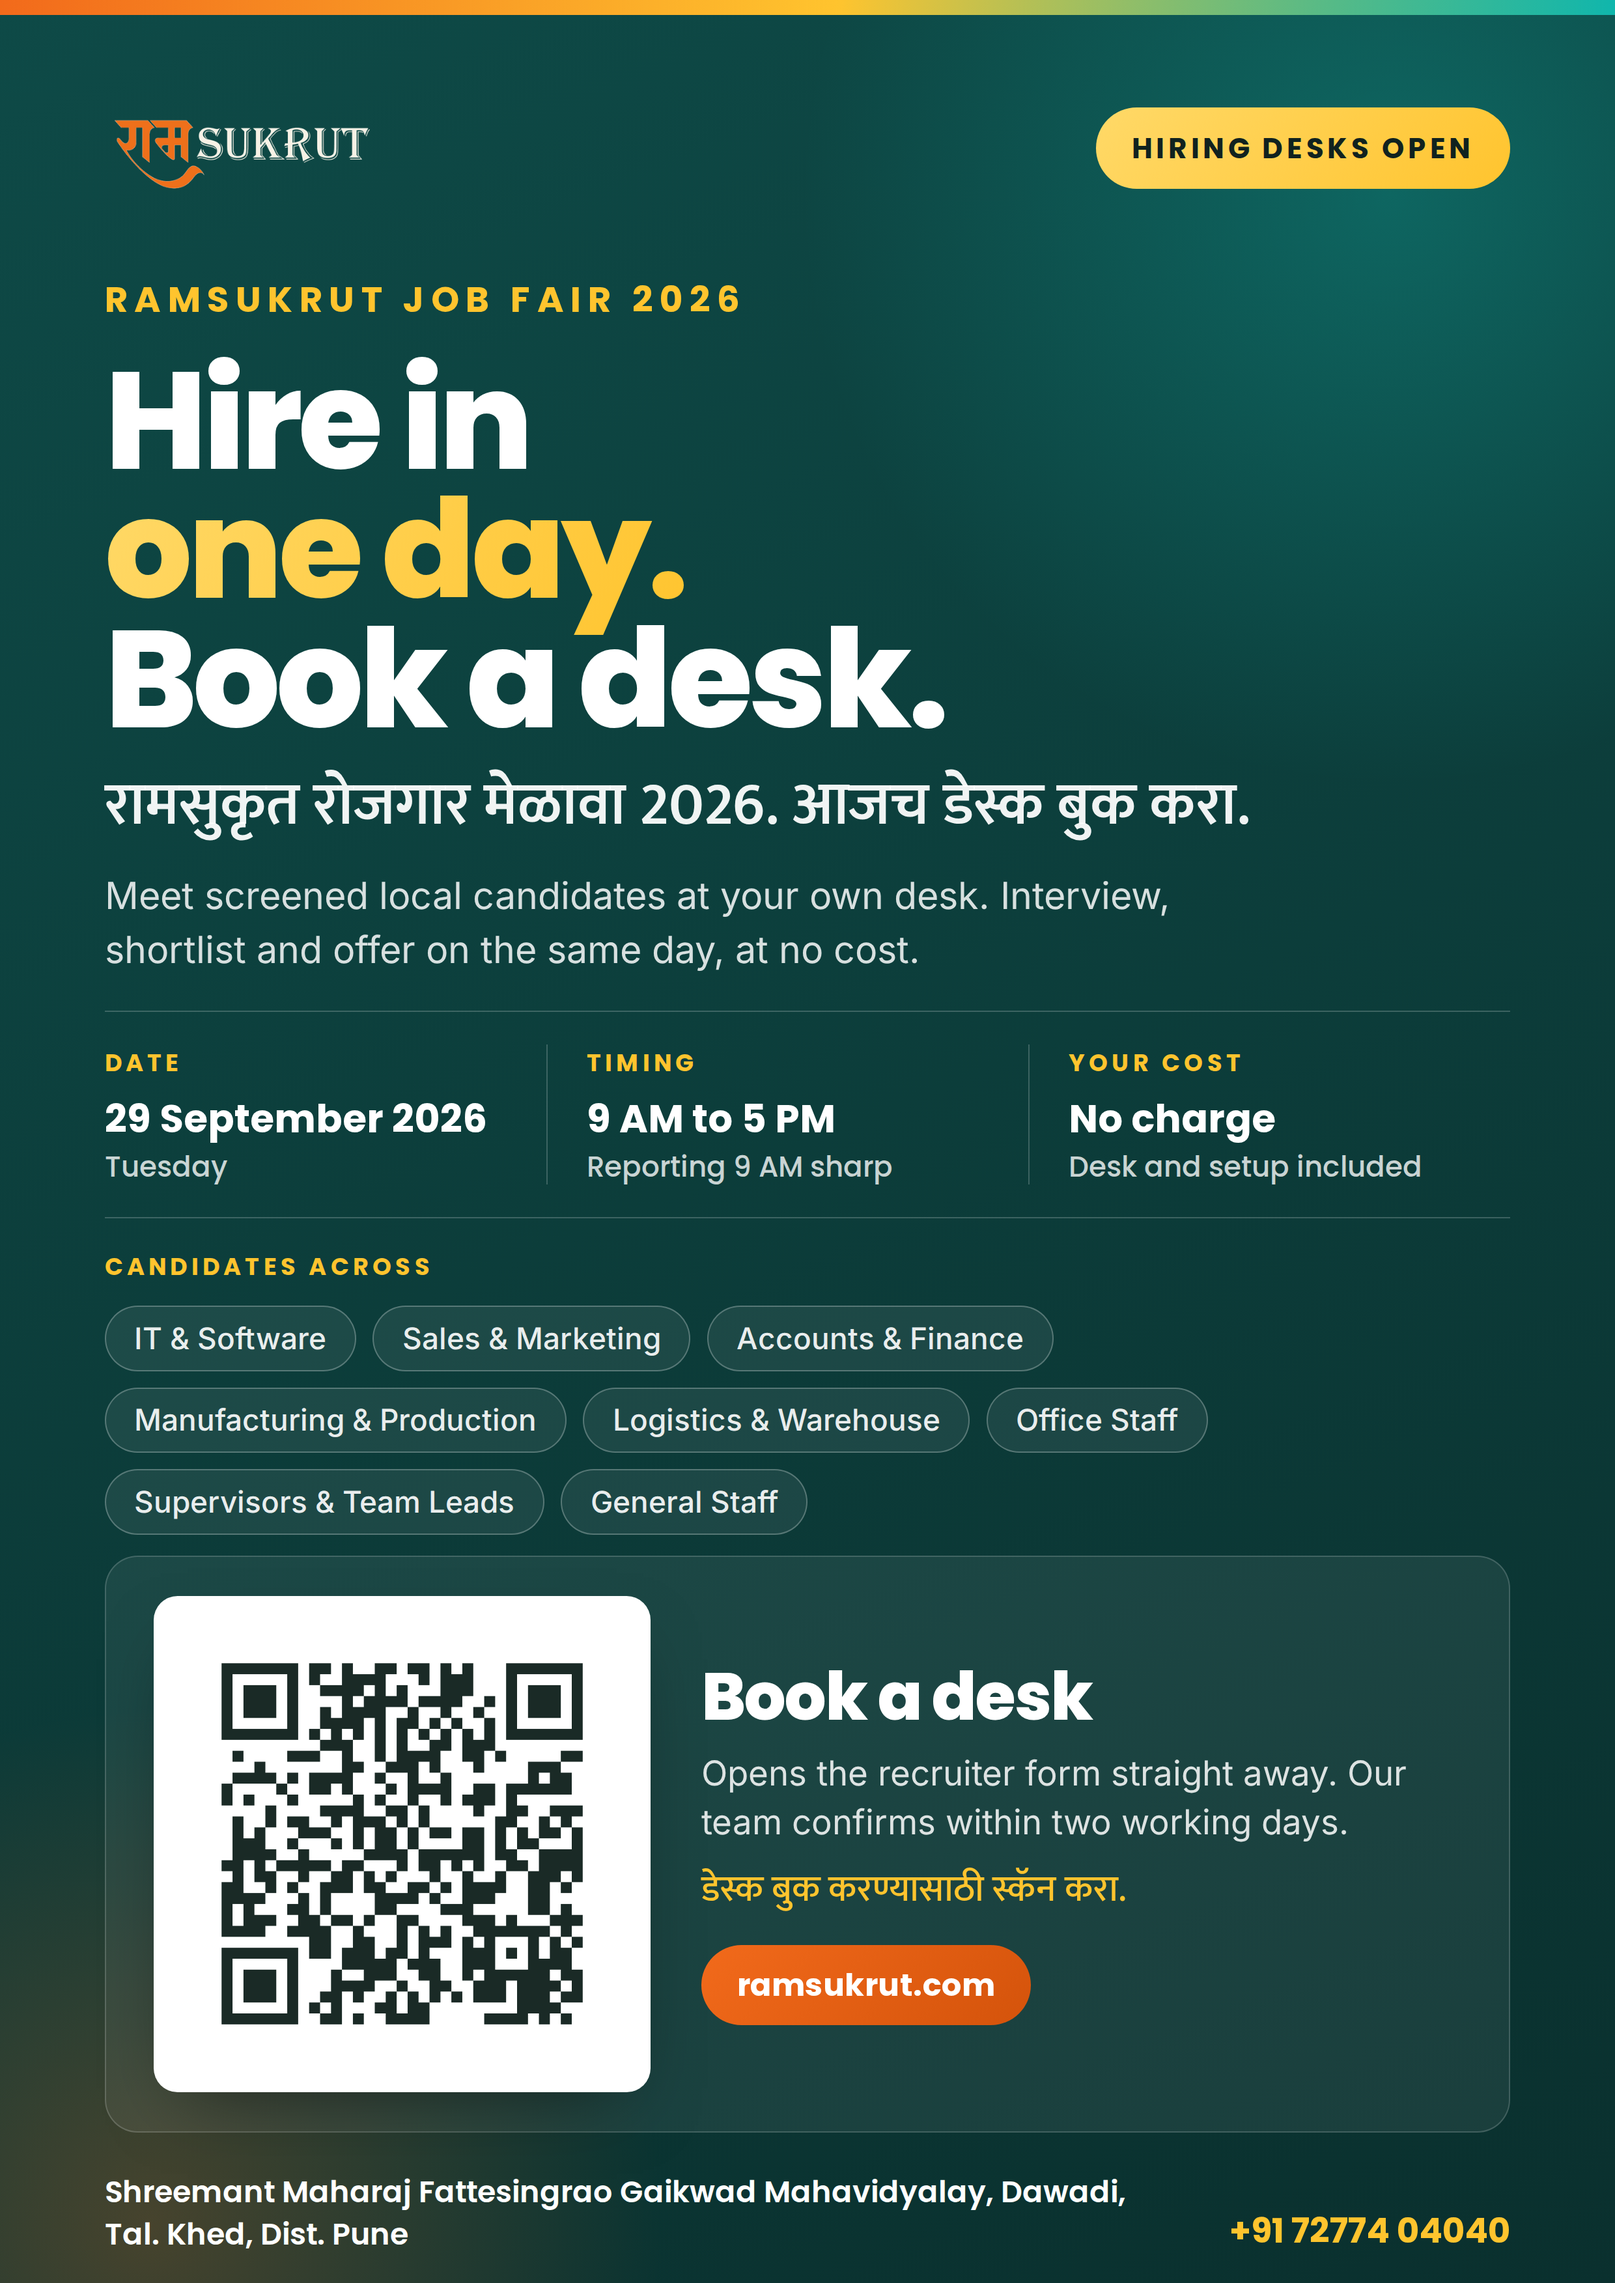
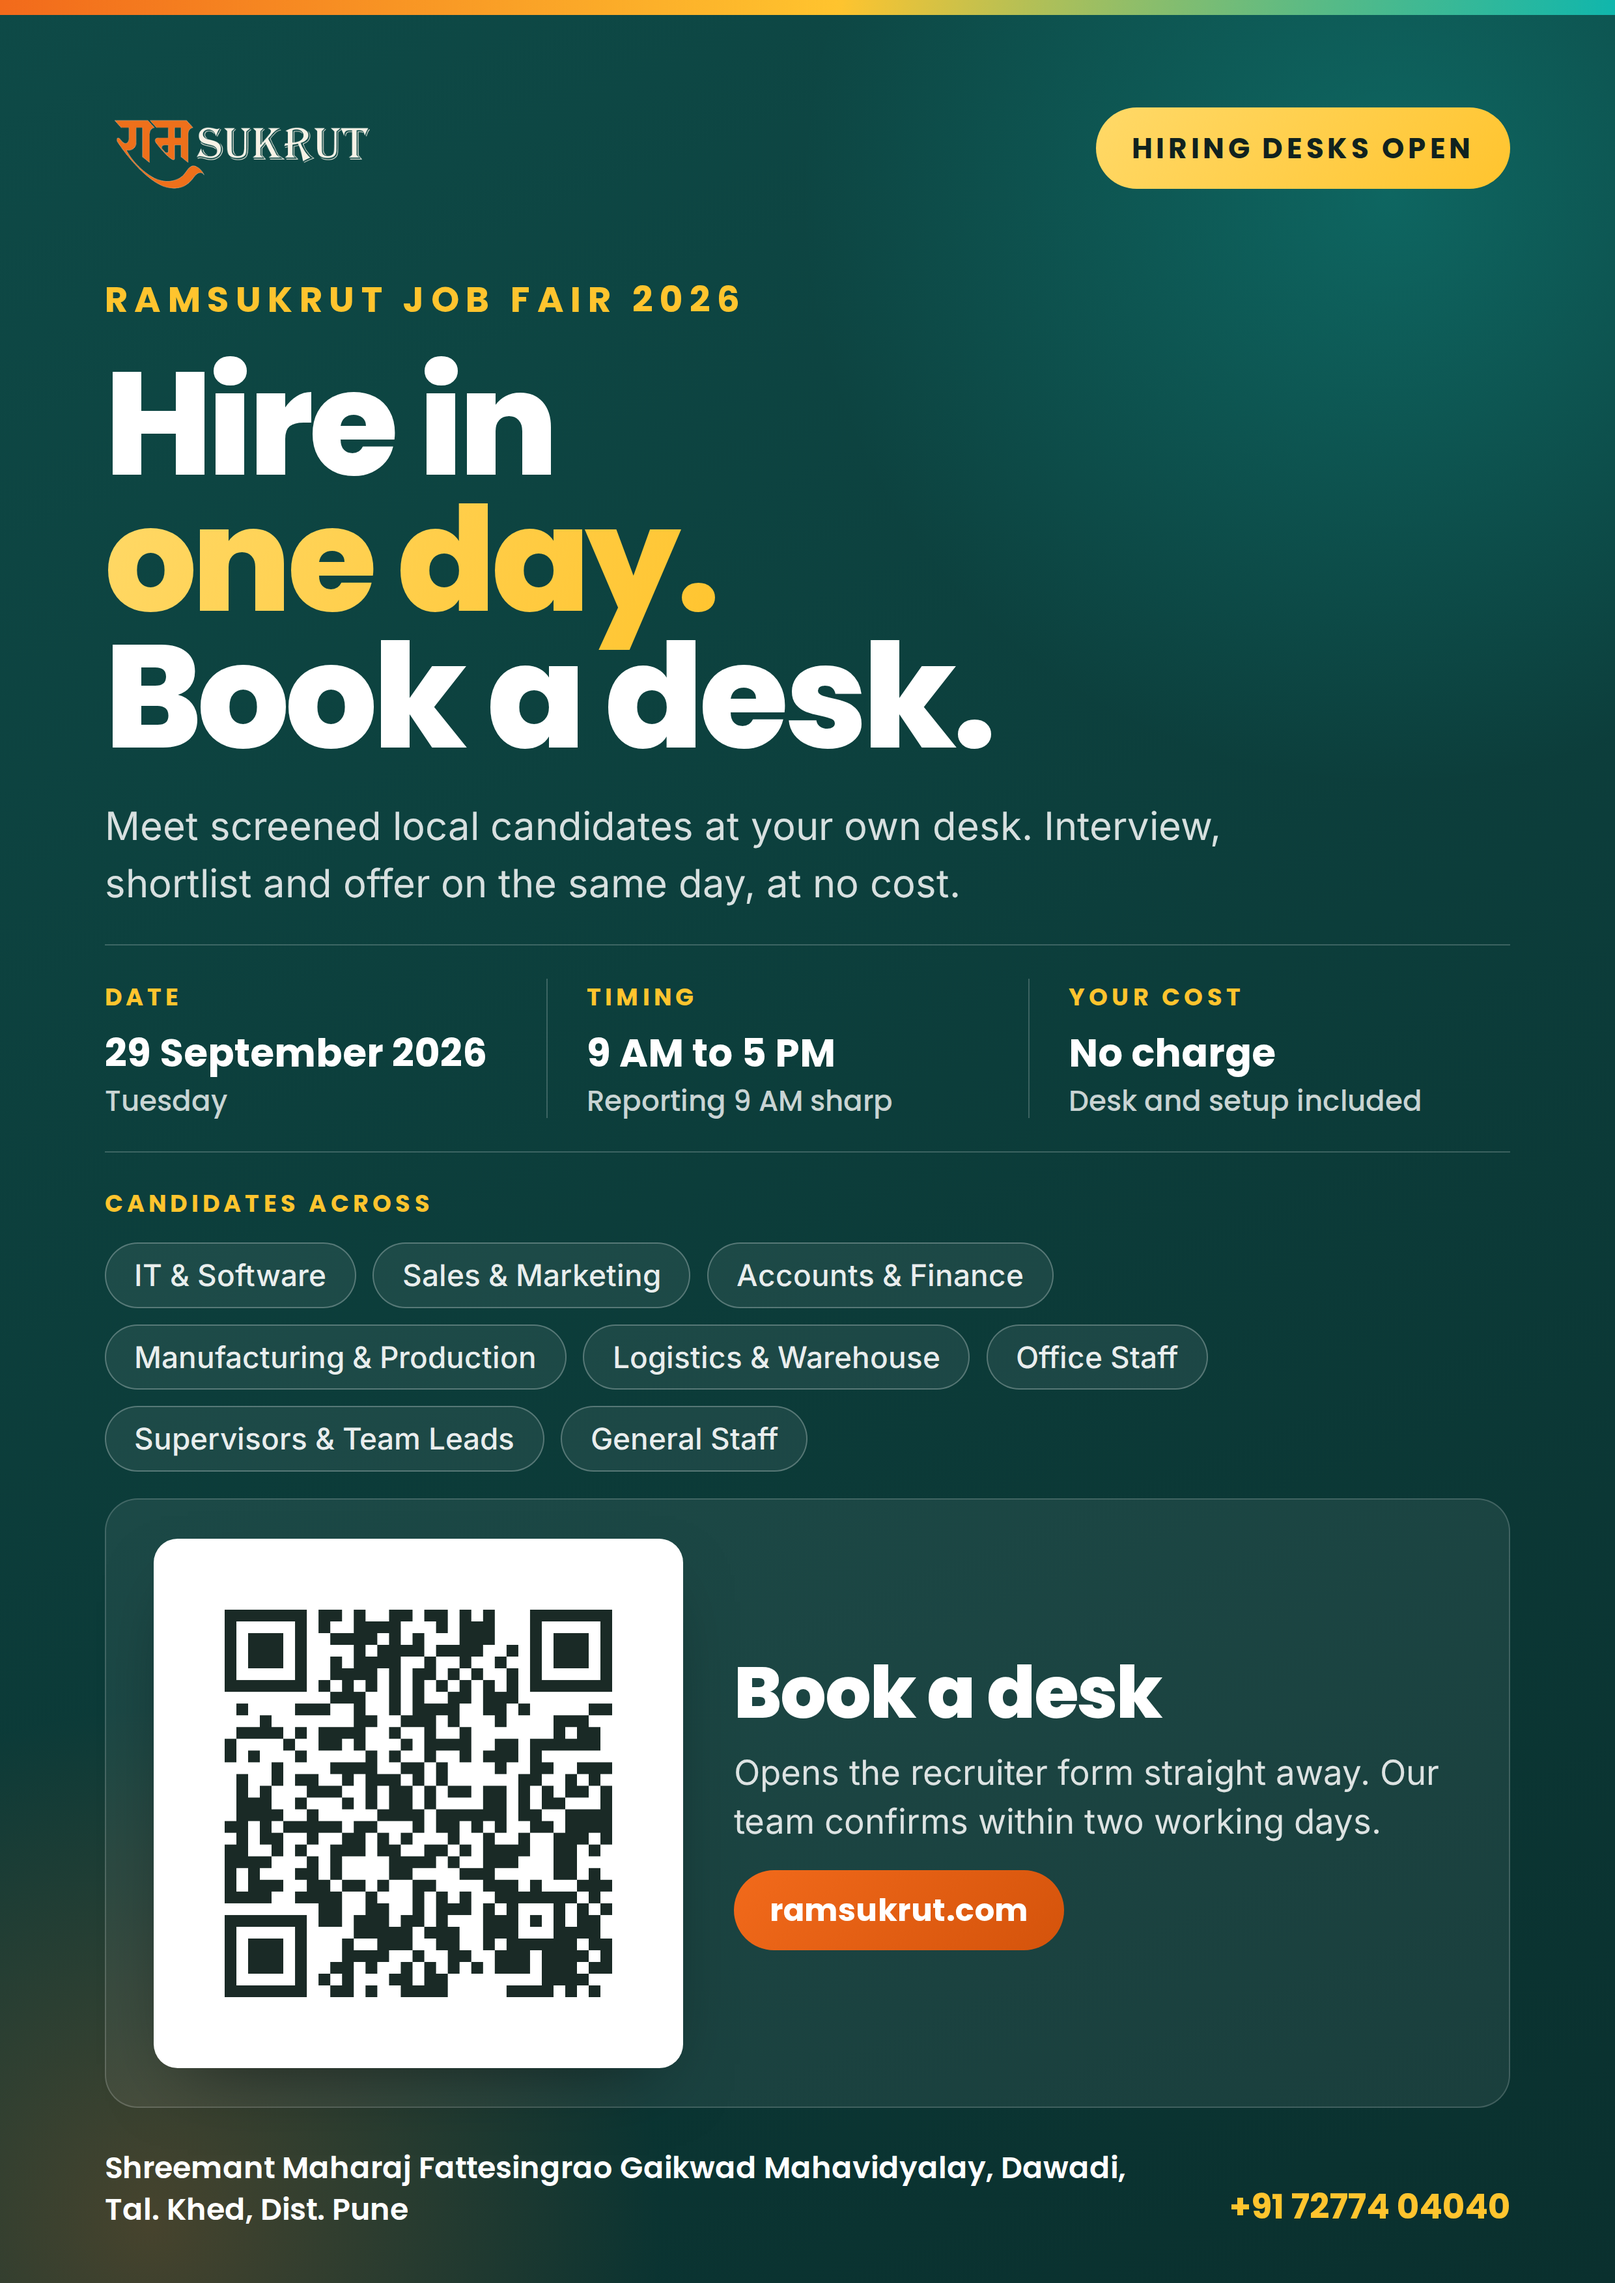
Job fair: organisation creative in English only

Changed region(s): [[0.0621, 0.1554, 0.8694, 0.9949], [0.652, 0.4353, 0.8694, 0.5285], [0.7762, 0.9638, 0.9315, 0.9949]]

diff --git a/qr/creative/poster-recruiter.html b/qr/creative/poster-recruiter.html
@@ -76,7 +76,7 @@
     position: relative;
     margin-top: 20px;
     font-family: Poppins, sans-serif;
-    font-size: 92px; font-weight: 800;
+    font-size: 97px; font-weight: 800;
     line-height: .94; letter-spacing: -.028em;
   }
   h1 .accent {
@@ -94,8 +94,8 @@
   }
   .lede {
     position: relative;
-    margin-top: 16px;
-    font-size: 25px; line-height: 1.46; font-weight: 400;
+    margin-top: 22px;
+    font-size: 26px; line-height: 1.46; font-weight: 400;
     color: rgba(255,255,255,.84);
     max-width: 780px;
   }
@@ -127,7 +127,7 @@
 
   /* Roles strip. Fills the space between the facts and the scan card with
      something a reader actually wants, rather than empty background. */
-  .roles { position: relative; margin-top: 20px; margin-bottom: 14px; }
+  .roles { position: relative; margin-top: 22px; margin-bottom: 18px; }
   .roles .k {
     font-family: Poppins, sans-serif;
     font-size: 16px; font-weight: 700;
@@ -159,11 +159,11 @@
     padding: 16px; flex: 0 0 auto;
     box-shadow: 0 20px 50px -22px rgba(0,0,0,.55);
   }
-  .qr-card img { width: 300px; height: 300px; display: block; }
+  .qr-card img { width: 322px; height: 322px; display: block; }
   .scan-copy { min-width: 0; }
   .scan-copy .big {
     font-family: Poppins, sans-serif;
-    font-size: 44px; font-weight: 800; line-height: 1.04;
+    font-size: 48px; font-weight: 800; line-height: 1.04;
     letter-spacing: -.02em;
   }
   .scan-copy .sub {
@@ -208,8 +208,6 @@
 
     <div class="eyebrow">Ramsukrut Job Fair 2026</div>
     <h1>Hire in<br /><span class="accent">one day.</span><br />Book a desk.</h1>
-    <div class="mr">रामसुकृत रोजगार मेळावा 2026. आजच डेस्क बुक करा.</div>
-
     <p class="lede">Meet screened local candidates at your own desk. Interview, shortlist and offer on the same day, at no cost.</p>
 
     <div class="facts">
@@ -246,7 +244,6 @@
       <div class="scan-copy">
         <div class="big">Book a desk</div>
         <div class="sub">Opens the recruiter form straight away. Our team confirms within two working days.</div>
-        <div class="mr-sm">डेस्क बुक करण्यासाठी स्कॅन करा.</div>
         <span class="url">ramsukrut.com</span>
       </div>
     </div>
